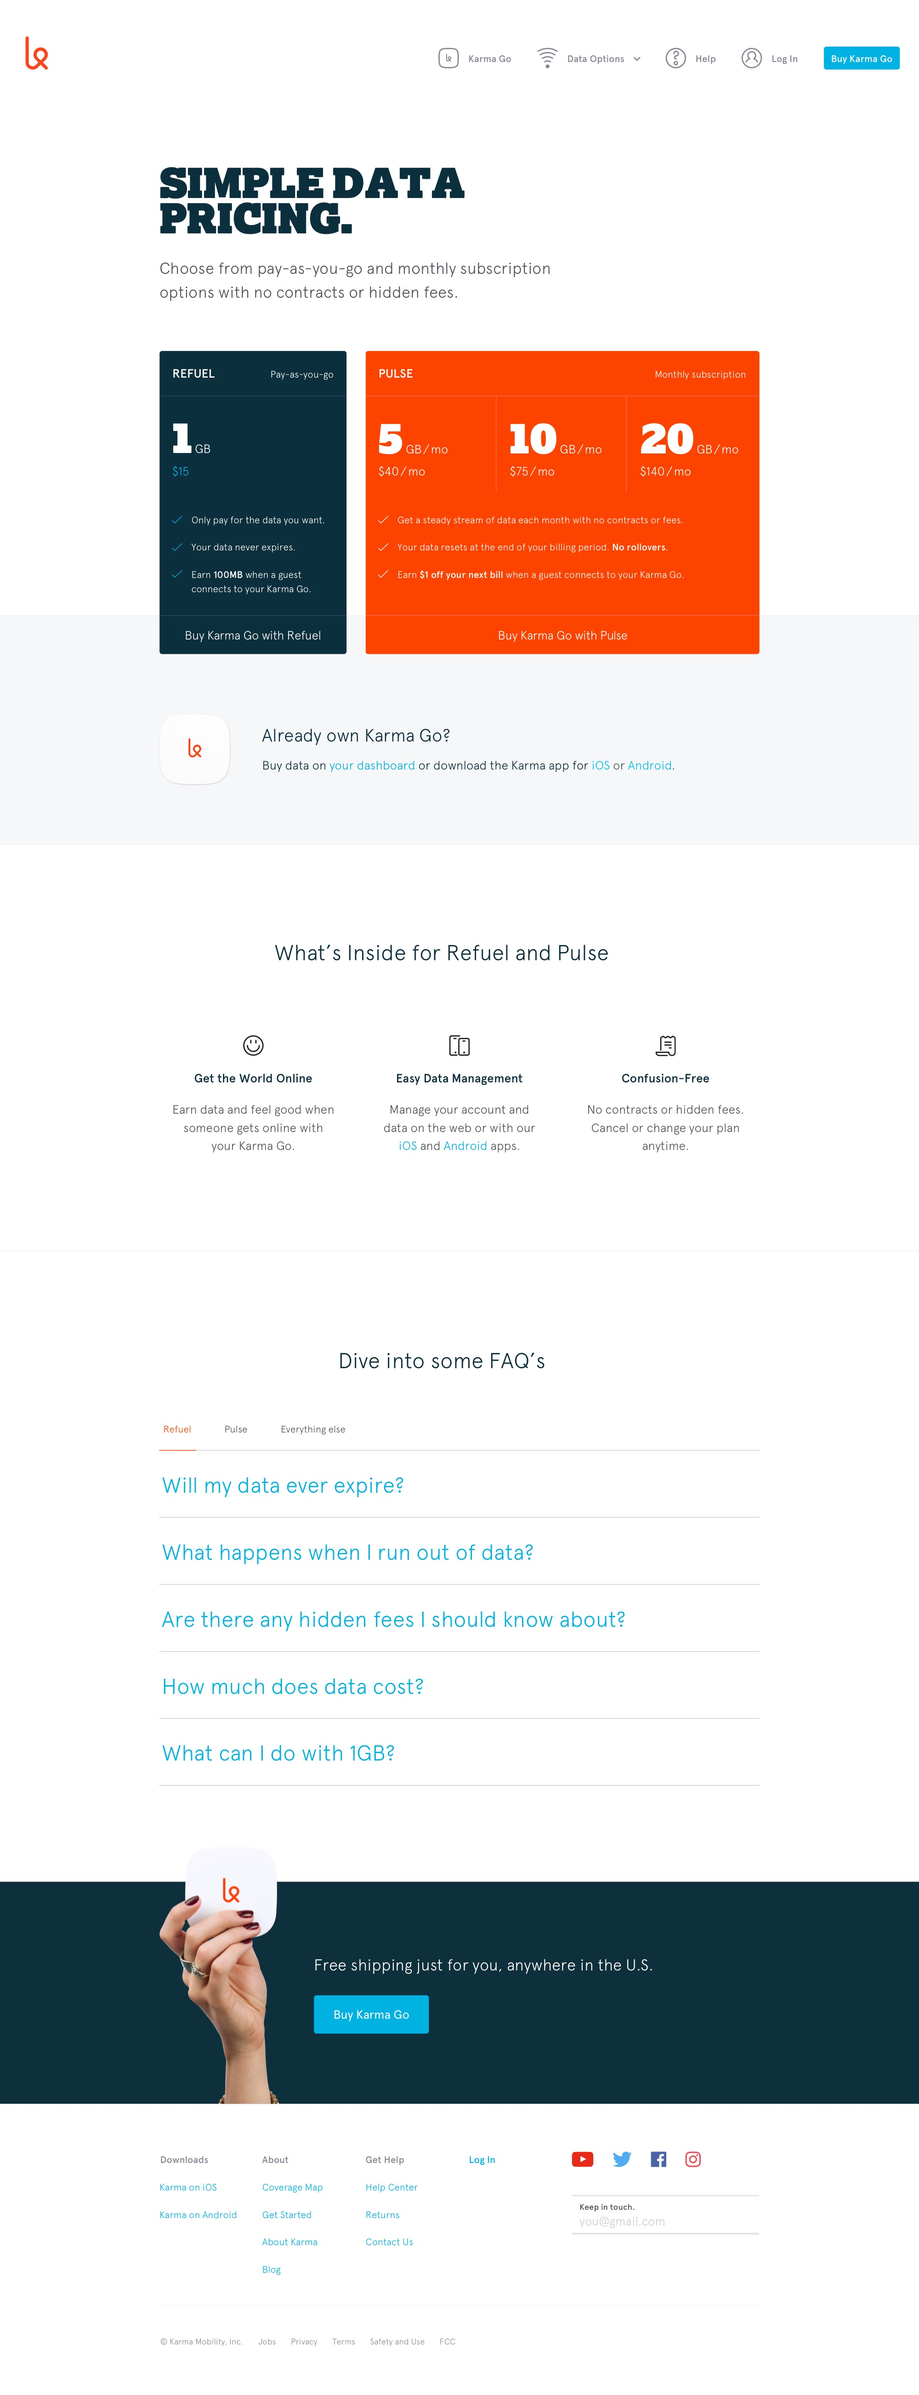
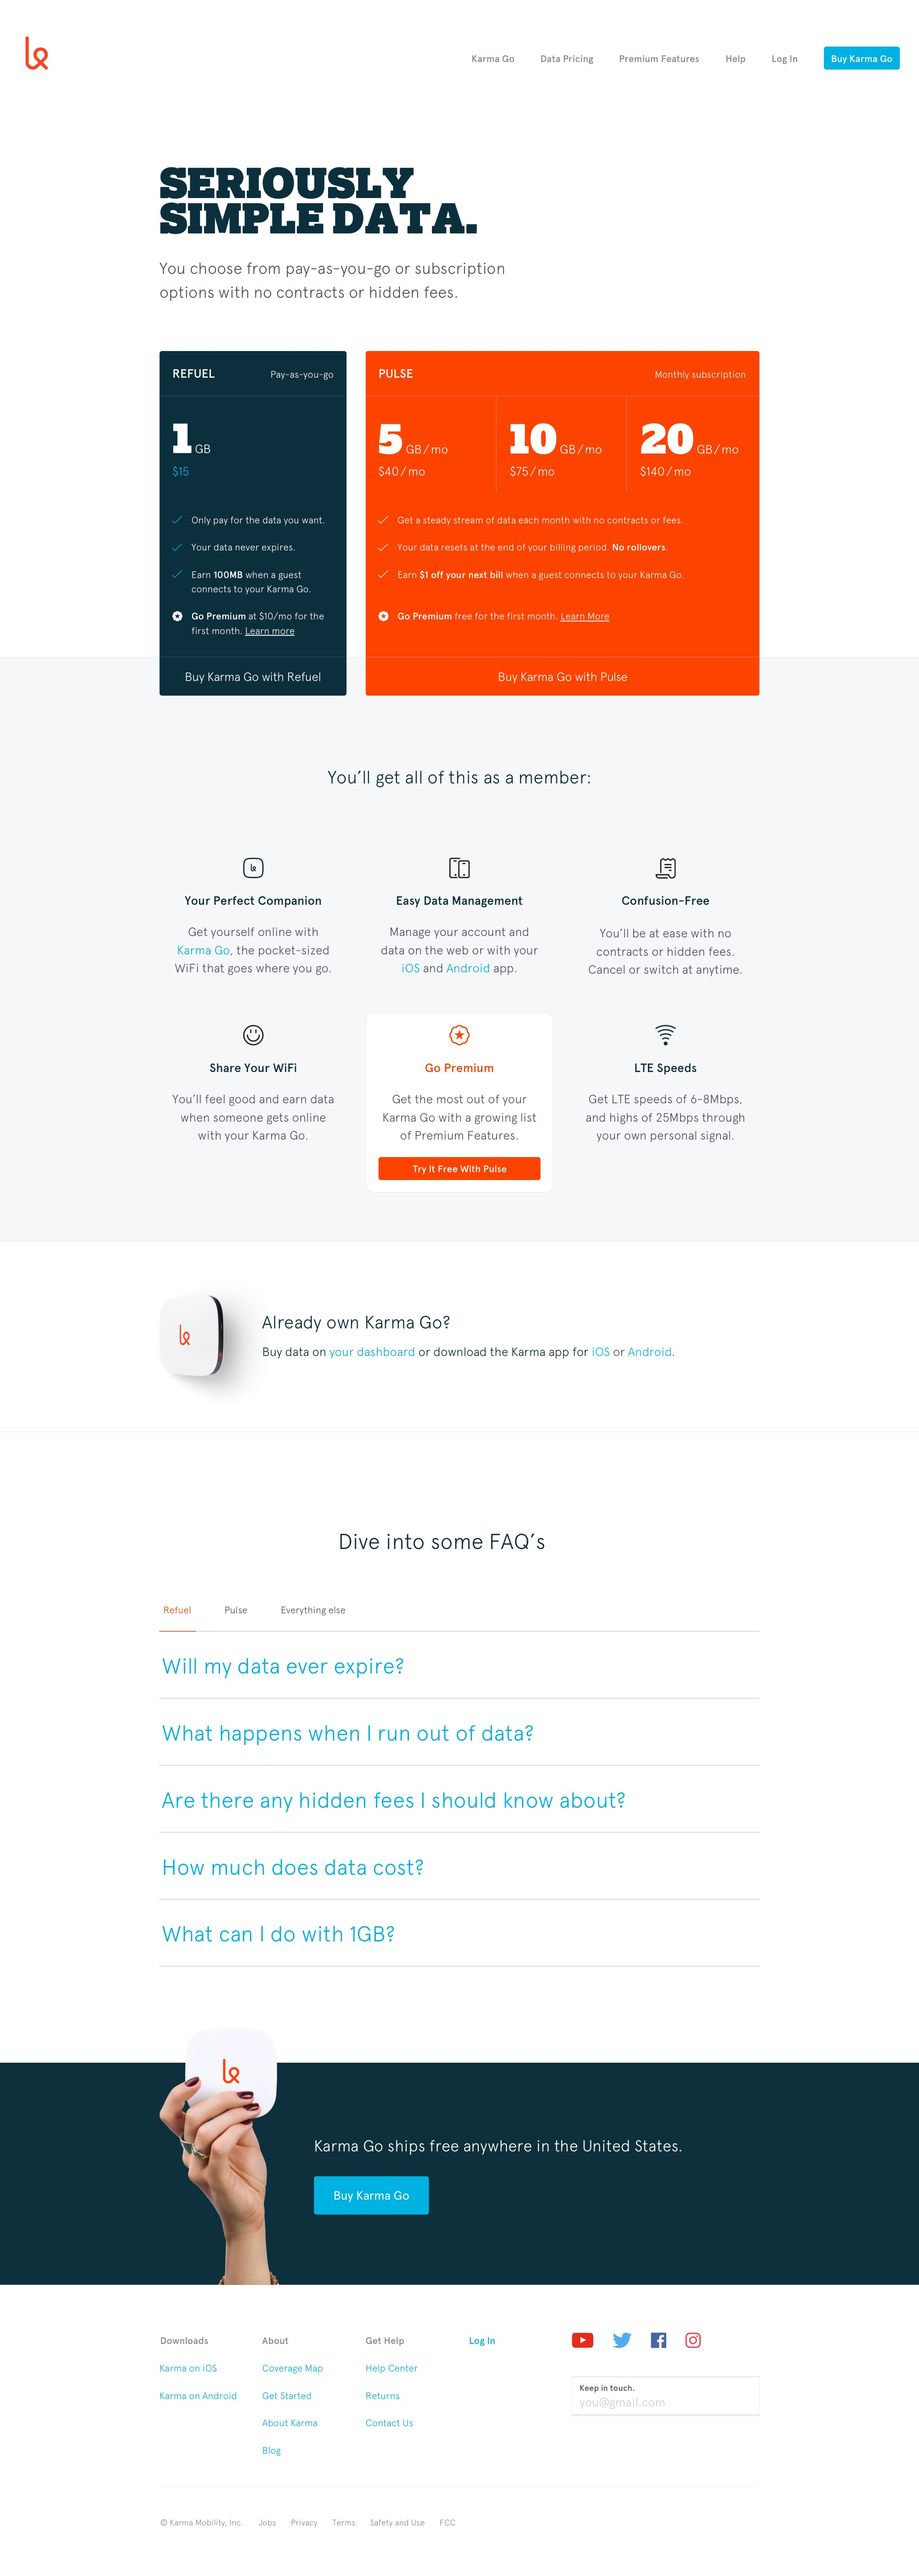
Updated Karma case study with Premium Features

diff --git a/karma/index.html b/karma/index.html
@@ -258,13 +258,24 @@
                 <p class="text-smaller">Our first attempt at a set of pricing pages for Refuel and Pulse</p>
             </div>
 
-            <p>Splitting pricing across two pages was confusing in practice. Emotional use cases can be effective, but we relied too heavily on them at the expense of making our plans understandable. People wanted to see features laid out side-by-side &ndash; giving them the chance to make their own decision on which plan worked for them. We eventually consolidated the two pages to one.</p>
+            <p>Splitting pricing across two pages was confusing in practice. Emotional use cases can be effective, but we relied too heavily on them at the expense of making our plans understandable. People wanted to see features laid out side-by-side &ndash; giving them the chance to make their own decision on which plan worked for them.</p>
 
             <div class="mt-3 mb-3 mt-md-4 mb-md-4">
                 <div class="b-1">
                     <img class="display-block" src="/assets/images/karma/web-pricing-2.jpg">
                 </div>
                 <p class="text-smaller">The second version of our pricing page</p>
+            </div>
+
+            <h3>Premium Features</h3>
+
+            <p>In July, we released Premium Features &ndash; an optional set of add-ons for our customers. The set of Premium Features would expand over time, but our set of launch features was sparse. Securing Karma Go's SSID would allow for several frequently requested functions though, so we designed a page to explain what subscribing meant for how a customer could use their Karma Go.</p>
+
+            <div class="mt-3 mb-3 mt-md-4 mb-md-4">
+                <div class="b-1">
+                    <img class="display-block" src="/assets/images/karma/web-premium-features.jpg">
+                </div>
+                <p class="text-smaller">Premium Features</p>
             </div>
 
             <h2 class="mt-4">Karma's Future</h2>
